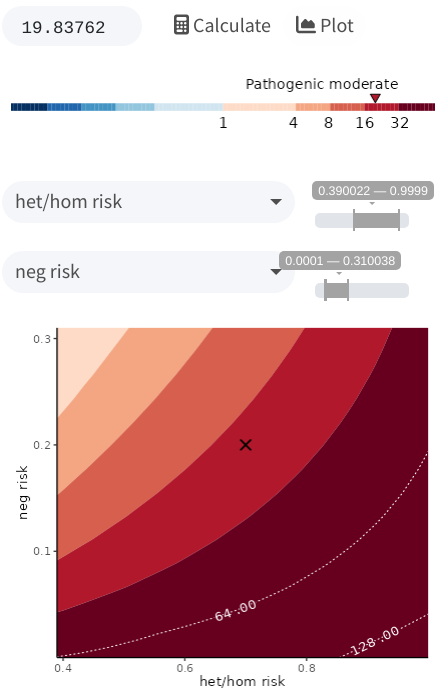
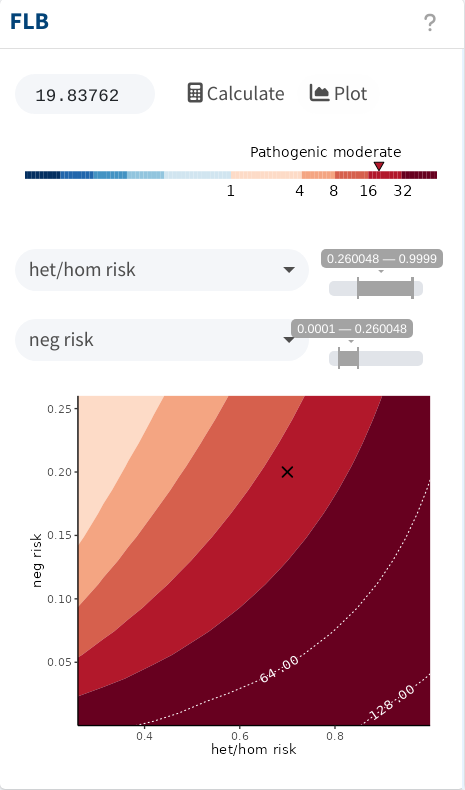
Improve example #3

diff --git a/docs/docs/examples/example3.md b/docs/docs/examples/example3.md
@@ -36,37 +36,65 @@ The data corresponding to the case is shown below:
 
 <img src={require("./img/ex3-ped.png").default} style={{maxHeight:"350px"}} />
 
-There are two disease phenotypes in this family: one relatively mild and
-common and one more rare and severe. It is hypothesized that the rare
-autosomal variant found could be related to an increased risks for both.
+In this family, there are two disease phenotypes: one relatively mild
+and common, and one more rare and severe. It is hypothesized that the
+rare autosomal variant found in some members (indicated by + or –) could
+be associated with increased risks for both.
 
-## One phenotype {#one-phenotype}
+## Simplified models {#simplified-models}
 
-A basic approach would be to ignore this fact and treat both as the same
-“affected” phenotype. For instance, we may use a conservative phenocopy
-rate (`neg risk`) of 20% and a penetrance (`het/hom risk`) of 70% for
-all pedigree members:
+In a first approach, we will ignore onset/censoring ages by switching to
+the `Liability class` mode and declaring age-independent classes.
 
-<img src={require("./img/ex3-lclass1-tab.png").default} style={{maxHeight:"62px"}} />
+The most basic strategy would be to also disregard the distinction
+between both phenotypes and treat both as the same “affected”. For
+instance, let’s assume that we suspect the phenocopy rate and penetrance
+for the mild phenotype to be 20% and 70%, respectively, and we decide to
+apply these values to all pedigree members:
+
+<img src={require("./img/ex3-lclass1-tab.png").default} style={{maxHeight:"185px"}} />
 
 With this setup, we would obtain moderate evidence for pathogenicity, as
-shown below. The sensitivity analysis also indicates that reducing the
-phenocopy rate would greatly increase the evidence. However, doing so
-may result in overestimation, since we know the mild phenotype is
-relatively common.
+shown below. The sensitivity analysis also indicates that increasing the
+ratio of the penetrance-to-phenocopy rate would increase the evidence.
 
-<img src={require("./img/ex3-lclass1-flb.png").default} style={{maxHeight:"500px"}} />
+<img src={require("./img/ex3-lclass1-flb.png").default} style={{maxHeight:"550px"}} />
 
-## Two phenotypes {#two-phenotypes-1}
+However, we should account for the differences between both phenotypes,
+if they exist. Luckily, this can be easily done by adding more liability
+classes and specifying the cases to which they apply. For instance, in
+the following, we set a phenocopy rate and penetrance for the severe
+phenotype of 1% and 25%, respectively. Notice that now we also need to
+specify the parameters for the “nonaffected” phenotype (`nonaff`), which
+refer to the risk for *any* of the disease phenotypes.
 
-Luckily, we can easily account for this fact by declaring a lower
-phenocopy rate for only the severe phenotype, let’s say 1%. This can be
-done by clicking on **ADD** to add more liability classes.
+<img src={require("./img/ex3-lclass2-tab.png").default} style={{maxHeight:"225px"}} />
 
-<img src={require("./img/ex3-lclass2-tab.png").default} style={{maxHeight:"105px"}} />
-
-And with that, the FLB doubles to 41.5, resulting in strong evidence for
+And with that, the FLB shoots to 45.3, resulting in strong evidence for
 pathogenicity.
 
-<img src={require("./img/ex3-lclass2-flb.png").default} style={{maxHeight:"100px"}} />
+<img src={require("./img/ex3-lclass2-flb.png").default} style={{maxHeight:"150px"}} />
+
+## Accounting for ages {#accounting-for-ages}
+
+Now, let’s complicate the model by considering the ages (of onset or
+censoring) shown below each pedigree member. This can be done by
+declaring age-specific liability classes, but it can quickly get
+cumbersome. To do it, we will switch back to the `Relative risk` mode.
+
+In this mode, we cannot overlook the distinction between both
+phenotypes; we must specify the parameters for both. In the following,
+we use the same risk values (now referring to lifetime risks) as before.
+Additionally, we consider that phenocopies have an expected onset at
+75±20 years of age for the mild phenotype and 60±15 years for the severe
+one. Notice that for the former, we also specify that the risk conferred
+by the variant is higher at middle ages; you can find further details on
+how to do this [here](/how-to/penetrance#hazard-ratios).
+
+<img src={require("./img/ex3-rrisk-tab.png").default} style={{maxHeight:"500px"}} />
+
+After accounting for the age data, cosegregation evidence is reduced
+considerably, although it remains strong (FLB \> 32).
+
+<img src={require("./img/ex3-rrisk-flb.png").default} style={{maxHeight:"150px"}} />
 
